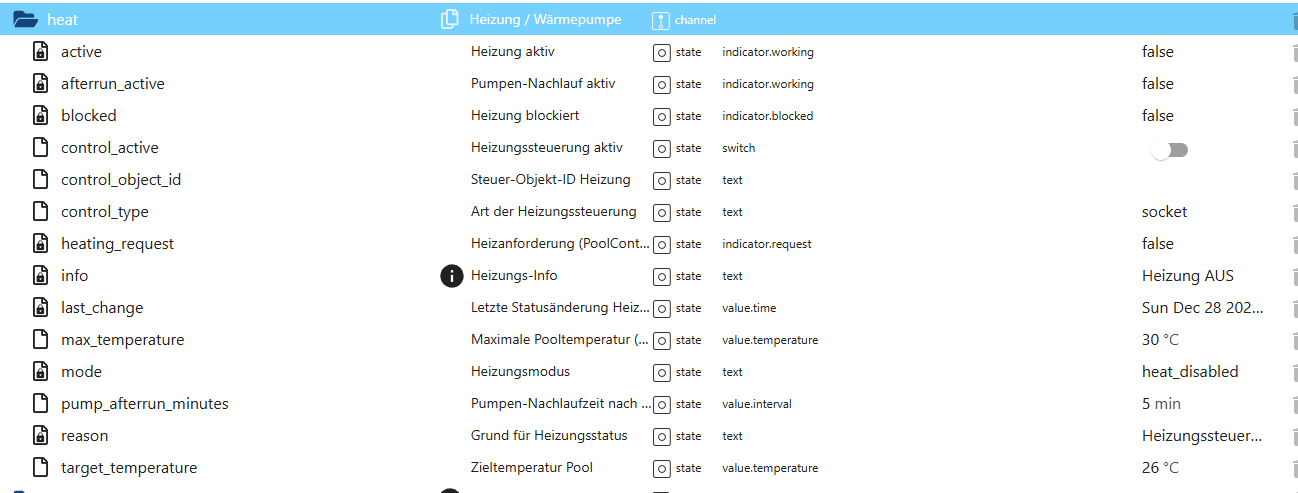
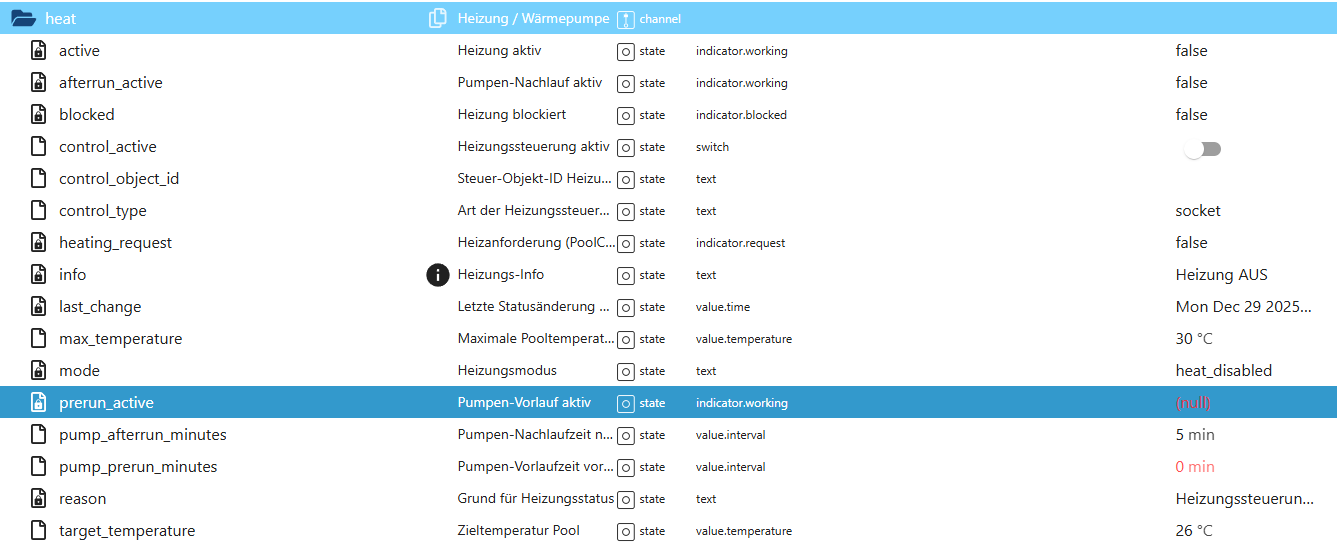
feat(heat): add pump prerun before heating start

diff --git a/lib/helpers/heatHelper.js b/lib/helpers/heatHelper.js
@@ -24,6 +24,7 @@ const heatHelper = {
     // dynamische Steuer-ID (foreign)
     _heatControlForeignId: '',
     _afterrunTimer: null,
+    _prerunTimer: null, // NEU: Pumpen-Vorlauf vor Heizstart
 
     // Ownership / Merker
     _ownsPump: false,
@@ -40,6 +41,7 @@ const heatHelper = {
         this.adapter.subscribeStates('heat.target_temperature');
         this.adapter.subscribeStates('heat.max_temperature');
         this.adapter.subscribeStates('heat.pump_afterrun_minutes');
+        this.adapter.subscribeStates('heat.pump_prerun_minutes'); // NEU
 
         // Abhängigkeiten
         this.adapter.subscribeStates('status.season_active');
@@ -81,7 +83,8 @@ const heatHelper = {
                 id.endsWith('status.season_active') ||
                 id.endsWith('pump.mode') ||
                 id.endsWith('temperature.surface.current') ||
-                id.endsWith('control.pump.maintenance_active')
+                id.endsWith('control.pump.maintenance_active') ||
+                id.endsWith('heat.pump_prerun_minutes')
             ) {
                 await this._safeEvaluate('state_change');
                 return;
@@ -216,6 +219,46 @@ const heatHelper = {
             return;
         }
 
+        // -------------------------------------------------
+        // NEU: Pumpen-Prerun vor Heizstart
+        // -------------------------------------------------
+        const prerunMin = Math.max(
+            0,
+            Number((await this.adapter.getStateAsync('heat.pump_prerun_minutes'))?.val ?? 0) || 0,
+        );
+
+        const pumpState = await this.adapter.getStateAsync('pump.pump_switch');
+        const pumpIsOn = !!pumpState?.val;
+
+        // Prerun nur, wenn:
+        // - Zeit > 0
+        // - Pumpe aktuell AUS
+        // - kein Prerun aktiv
+        if (prerunMin > 0 && !pumpIsOn && !this._prerunTimer) {
+            this.adapter.log.info(`[heatHelper] Starte Pumpen-Prerun (${prerunMin} min)`);
+
+            // Pumpe einschalten + Ownership übernehmen
+            this._ownsPump = true;
+            await this.adapter.setStateAsync('pump.pump_switch', { val: true, ack: false });
+
+            // Prerun-Status setzen
+            await this.adapter.setStateAsync('heat.prerun_active', { val: true, ack: true });
+
+            const holdMs = Math.round(prerunMin * 60 * 1000);
+
+            this._prerunTimer = setTimeout(async () => {
+                this._prerunTimer = null;
+
+                await this.adapter.setStateAsync('heat.prerun_active', { val: false, ack: true });
+
+                // Nach Prerun erneut bewerten → Heizung darf jetzt starten
+                await this._safeEvaluate('prerun_done');
+            }, holdMs);
+
+            // WICHTIG: Heizung JETZT noch NICHT einschalten
+            return;
+        }
+
         this._desiredHeat = true;
 
         // Nachlauf ggf. abbrechen
@@ -278,6 +321,13 @@ const heatHelper = {
     },
 
     async _applyBlockedState(mode, reason, afterrunMin) {
+        // NEU: laufenden Prerun abbrechen
+        if (this._prerunTimer) {
+            clearTimeout(this._prerunTimer);
+            this._prerunTimer = null;
+            await this.adapter.setStateAsync('heat.prerun_active', { val: false, ack: true });
+        }
+
         // blockiert => Heizung aus, Request false
         await this._setHeatingDevice(false, (await this.adapter.getStateAsync('heat.control_object_id'))?.val || '');
 
@@ -295,6 +345,13 @@ const heatHelper = {
     },
 
     async _applyOffState(mode, reason, afterrunMin) {
+        // NEU: laufenden Prerun abbrechen
+        if (this._prerunTimer) {
+            clearTimeout(this._prerunTimer);
+            this._prerunTimer = null;
+            await this.adapter.setStateAsync('heat.prerun_active', { val: false, ack: true });
+        }
+
         // off => Heizung aus, Request false
         await this._setHeatingDevice(false, (await this.adapter.getStateAsync('heat.control_object_id'))?.val || '');
 
@@ -371,6 +428,7 @@ const heatHelper = {
         } finally {
             this._ownsPump = false;
             await this.adapter.setStateAsync('heat.afterrun_active', { val: false, ack: true });
+            await this.adapter.setStateAsync('heat.prerun_active', { val: false, ack: true });
             this.adapter.log.info(`[heatHelper] Pumpe AUS (${tag})`);
         }
     },
@@ -442,6 +500,11 @@ const heatHelper = {
             clearTimeout(this._afterrunTimer);
             this._afterrunTimer = null;
         }
+        if (this._prerunTimer) {
+            clearTimeout(this._prerunTimer);
+            this._prerunTimer = null;
+        }
+
         this._ownsPump = false;
         this._desiredHeat = null;
     },

diff --git a/lib/stateDefinitions/heatStates.js b/lib/stateDefinitions/heatStates.js
@@ -129,6 +129,28 @@ async function createHeatStates(adapter) {
         });
     }
 
+    // --- NEU: Pumpen-Vorlaufzeit vor Heizstart ---
+    await adapter.setObjectNotExistsAsync(`${channelId}.pump_prerun_minutes`, {
+        type: 'state',
+        common: {
+            name: 'Pumpen-Vorlaufzeit vor Heizung',
+            type: 'number',
+            role: 'value.interval',
+            unit: 'min',
+            read: true,
+            write: true,
+            persist: true,
+        },
+        native: {},
+    });
+    const existingPrerun = await adapter.getStateAsync(`${channelId}.pump_prerun_minutes`);
+    if (existingPrerun === null || existingPrerun.val === null || existingPrerun.val === undefined) {
+        await adapter.setStateAsync(`${channelId}.pump_prerun_minutes`, {
+            val: 0,
+            ack: true,
+        });
+    }
+
     await adapter.setObjectNotExistsAsync(`${channelId}.pump_afterrun_minutes`, {
         type: 'state',
         common: {
@@ -184,6 +206,19 @@ async function createHeatStates(adapter) {
             name: 'Heizung blockiert',
             type: 'boolean',
             role: 'indicator.blocked',
+            read: true,
+            write: false,
+        },
+        native: {},
+    });
+
+    // --- NEU: Pumpen-Vorlauf aktiv ---
+    await adapter.setObjectNotExistsAsync(`${channelId}.prerun_active`, {
+        type: 'state',
+        common: {
+            name: 'Pumpen-Vorlauf aktiv',
+            type: 'boolean',
+            role: 'indicator.working',
             read: true,
             write: false,
         },

diff --git a/docs/states/heat.md b/docs/states/heat.md
@@ -149,6 +149,33 @@ Zeigt an, ob sich der HeatHelper aktuell im Pumpen-Nachlauf befindet.
 
 ---
 
+### 🔹 Pumpenlogik & Vorlauf
+
+#### `heat.pump_prerun_minutes`
+Definiert eine **Pumpen-Vorlaufzeit vor dem Heizstart**.
+
+Wenn ein Heizbedarf erkannt wird und die Pumpe aktuell aus ist,  
+schaltet der HeatHelper zuerst die Pumpe ein und wartet die hier definierte Zeit,  
+bevor die Heizung aktiviert wird.
+
+- `0` → kein Vorlauf (Heizung startet sofort)  
+- `>0` → Pumpe läuft vor Heizstart entsprechend lange  
+
+Typischer Anwendungsfall:
+- Wärmepumpe benötigt Wasserdruck / Durchfluss vor dem Start
+
+---
+
+#### `heat.prerun_active`
+Zeigt an, ob sich der HeatHelper aktuell im **Pumpen-Vorlauf** befindet.
+
+- `true` → Pumpen-Vorlauf läuft  
+- `false` → kein aktiver Vorlauf  
+
+Der State wird **nur gesetzt**, wenn ein Vorlauf tatsächlich ausgeführt wird.
+
+---
+
 ### 🔹 Steuerobjekt (Heizung)
 
 #### `heat.control_type`
